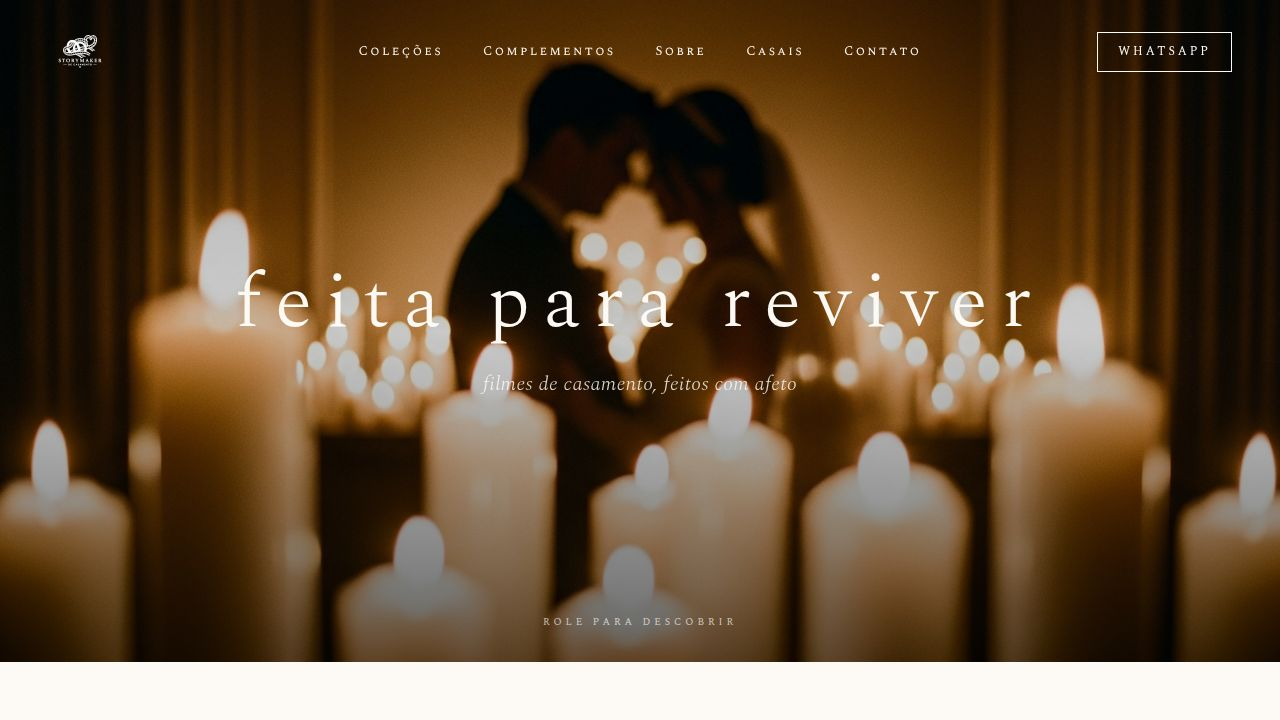
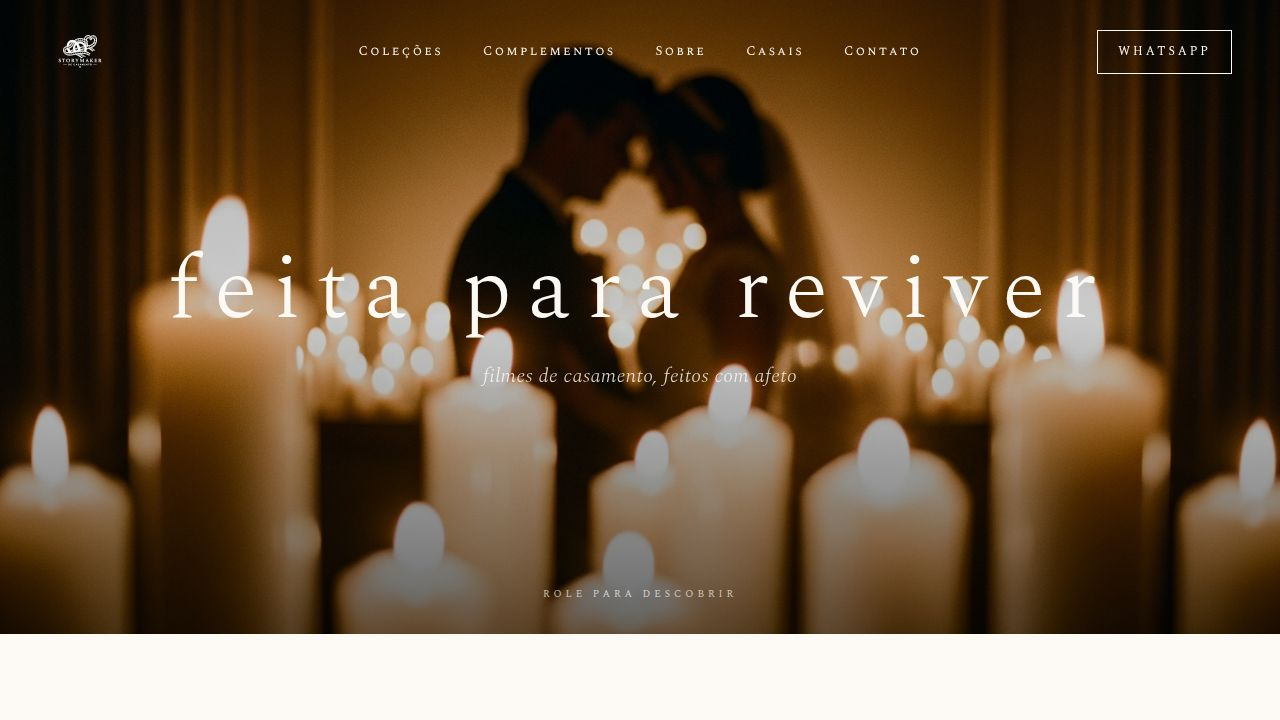
Improve website design and mobile responsiveness for better user experience
Update index.html, home.tsx, and various favicon assets to enhance mobile layout, header, and meta tags for improved responsiveness and favicons.

Replit-Commit-Author: Agent
Replit-Commit-Session-Id: 29212a02-7943-4e20-92ff-2854b4e63121
Replit-Commit-Checkpoint-Type: full_checkpoint
Replit-Commit-Event-Id: 5e167008-33ba-4bec-8a4d-55cfc9a4289c
Replit-Commit-Screenshot-Url: https://storage.googleapis.com/screenshot-production-us-central1/edd588f1-44c4-46a9-9ece-633be6032f3a/29212a02-7943-4e20-92ff-2854b4e63121/r1Ar5bD
Replit-Helium-Checkpoint-Created: true

diff --git a/artifacts/storymaker/src/pages/home.tsx b/artifacts/storymaker/src/pages/home.tsx
@@ -188,20 +188,20 @@ export default function Home() {
             : "bg-transparent"
         }`}
       >
-        <div className="max-w-[1400px] mx-auto px-6 md:px-12 py-4 md:py-5 grid grid-cols-3 items-center">
+        <div className="max-w-[1400px] mx-auto px-5 md:px-12 py-3 md:py-5 flex lg:grid lg:grid-cols-3 items-center justify-between lg:justify-stretch">
           {/* Logo (left) */}
-          <a href="#top" className="flex items-center">
+          <a href="#top" className="flex items-center shrink-0">
             <img
               src={logoImage}
               alt="Storymaker de Casamento"
-              className={`h-14 md:h-16 w-auto transition-all duration-500 ${
+              className={`h-11 md:h-14 lg:h-16 w-auto transition-all duration-500 ${
                 scrolled ? "" : "brightness-0 invert"
               }`}
             />
           </a>
 
           {/* Nav (center) */}
-          <nav className="hidden md:flex items-center justify-center gap-8 lg:gap-10">
+          <nav className="hidden lg:flex items-center justify-center gap-8 xl:gap-10">
             {NAV_LINKS.map((l) => (
               <a
                 key={l.href}
@@ -218,13 +218,13 @@ export default function Home() {
           </nav>
 
           {/* CTA (right) */}
-          <div className="flex items-center justify-end gap-4">
+          <div className="flex items-center lg:justify-end">
             <a
               href={WHATSAPP_HREF}
               target="_blank"
               rel="noopener noreferrer"
               aria-label="Falar no WhatsApp"
-              className={`smallcaps text-[10px] md:text-[12px] tracking-[0.22em] md:tracking-[0.25em] uppercase border px-3.5 md:px-5 py-2 md:py-2.5 transition-colors ${
+              className={`smallcaps text-[10px] md:text-[12px] tracking-[0.2em] md:tracking-[0.25em] uppercase border min-h-[44px] inline-flex items-center px-4 md:px-5 py-2 md:py-2.5 transition-colors ${
                 scrolled
                   ? "border-[#1a1410] text-[#1a1410] hover:bg-[#1a1410] hover:text-[#fdfaf5]"
                   : "border-[#fdfaf5] text-[#fdfaf5] hover:bg-[#fdfaf5] hover:text-[#1a1410]"
@@ -237,7 +237,7 @@ export default function Home() {
       </header>
 
       {/* HERO — fullbanner */}
-      <section id="top" className="relative h-[92vh] min-h-[620px] max-h-[920px] -mt-[88px] md:-mt-[104px] overflow-hidden">
+      <section id="top" className="relative h-[88vh] min-h-[560px] max-h-[920px] -mt-[68px] md:-mt-[104px] overflow-hidden">
         <img
           src={heroSilhouettes}
           alt="Silhueta de noivos entre velas"
@@ -246,22 +246,19 @@ export default function Home() {
         />
         <div className="absolute inset-0 bg-gradient-to-b from-black/30 via-black/20 to-black/60" />
 
-        <div className="relative z-10 h-full flex items-center justify-center text-center px-6">
+        <div className="relative z-10 h-full flex items-center justify-center text-center px-4 md:px-5">
           <motion.div initial="hidden" animate="visible" variants={fadeUp}>
-            <p
-              className="text-[#fdfaf5] font-light text-[clamp(2.4rem,6vw,5.6rem)] leading-[1.05]"
-              style={{ letterSpacing: "0.18em" }}
-            >
+            <p className="text-[#fdfaf5] font-light text-[clamp(2.1rem,7vw,5.6rem)] leading-[1.05] tracking-[0.04em] sm:tracking-[0.08em] md:tracking-[0.18em] whitespace-nowrap">
               feita para reviver
             </p>
-            <p className="mt-6 text-[#fdfaf5]/85 italic font-light text-[clamp(1rem,1.6vw,1.25rem)] tracking-wide">
+            <p className="mt-5 md:mt-6 text-[#fdfaf5]/85 italic font-light text-[clamp(0.95rem,1.6vw,1.25rem)] tracking-wide px-4">
               filmes de casamento, feitos com afeto
             </p>
           </motion.div>
         </div>
 
         {/* scroll cue */}
-        <div className="absolute bottom-8 left-1/2 -translate-x-1/2 text-[#fdfaf5]/70 text-[10px] tracking-[0.4em] uppercase">
+        <div className="absolute bottom-6 md:bottom-8 left-1/2 -translate-x-1/2 text-[#fdfaf5]/70 text-[10px] tracking-[0.35em] md:tracking-[0.4em] uppercase whitespace-nowrap">
           role para descobrir
         </div>
       </section>
@@ -272,12 +269,12 @@ export default function Home() {
         whileInView="visible"
         viewport={{ once: true, amount: 0.3 }}
         variants={fadeUp}
-        className="max-w-[820px] mx-auto px-6 py-24 md:py-32 text-center"
+        className="max-w-[820px] mx-auto px-5 md:px-6 py-16 md:py-32 text-center"
       >
-        <h1 className="text-[clamp(1.8rem,4vw,3rem)] font-light leading-tight">
+        <h1 className="text-[clamp(1.7rem,4vw,3rem)] font-light leading-tight">
           Made with love by <span className="italic">Storymaker</span>
         </h1>
-        <p className="mt-8 text-[17px] md:text-[18px] leading-[1.9] font-light text-[#3b322a]">
+        <p className="mt-6 md:mt-8 text-[15.5px] md:text-[18px] leading-[1.8] md:leading-[1.9] font-light text-[#3b322a]">
           Acreditamos que cada casamento merece ser contado com a delicadeza
           de um filme — não documentado, mas{" "}
           <span className="italic">eternizado</span>. Trabalhamos com poucos
@@ -289,14 +286,14 @@ export default function Home() {
       </motion.section>
 
       {/* FEATURED FILMS — Bestsellers */}
-      <section id="casais" className="border-t border-[#1a1410]/10 py-20 md:py-24">
-        <div className="max-w-[1400px] mx-auto px-6 md:px-12">
-          <div className="flex items-end justify-between mb-10">
+      <section id="casais" className="border-t border-[#1a1410]/10 py-14 md:py-24">
+        <div className="max-w-[1400px] mx-auto px-5 md:px-12">
+          <div className="flex items-end justify-between mb-8 md:mb-10">
             <div>
-              <p className="smallcaps text-[12px] tracking-[0.3em] text-[#8a6a2e] mb-3">
+              <p className="smallcaps text-[11px] md:text-[12px] tracking-[0.3em] text-[#8a6a2e] mb-2 md:mb-3">
                 demonstração
               </p>
-              <h2 className="text-[clamp(1.8rem,3.4vw,2.6rem)] font-light italic">
+              <h2 className="text-[clamp(1.6rem,3.4vw,2.6rem)] font-light italic">
                 uma pequena amostra do nosso olhar
               </h2>
             </div>
@@ -320,7 +317,7 @@ export default function Home() {
 
           <div
             ref={featuredRef}
-            className="no-scrollbar flex gap-5 overflow-x-auto snap-x snap-mandatory pb-2 -mx-6 px-6"
+            className="no-scrollbar flex gap-4 md:gap-5 overflow-x-auto snap-x snap-mandatory pb-2 -mx-5 md:-mx-6 px-5 md:px-6"
           >
             {FEATURED_FILMS.map((f, i) => (
               <a
@@ -330,7 +327,7 @@ export default function Home() {
                 )}
                 target="_blank"
                 rel="noopener noreferrer"
-                className="shrink-0 w-[240px] md:w-[300px] lg:w-[340px] snap-start group"
+                className="shrink-0 w-[78vw] sm:w-[260px] md:w-[300px] lg:w-[340px] snap-start group"
               >
                 <div className="relative aspect-[9/16] overflow-hidden bg-[#0c0a08]">
                   {f.video ? (
@@ -372,18 +369,18 @@ export default function Home() {
       </section>
 
       {/* PACKAGES — home-banners-grid (2x2) */}
-      <section id="colecoes" className="py-20 md:py-28 bg-[#f4eee2]/40">
-        <div className="max-w-[1400px] mx-auto px-6 md:px-12">
-          <div className="text-center mb-14 md:mb-16">
-            <p className="smallcaps text-[12px] tracking-[0.3em] text-[#8a6a2e] mb-3">
+      <section id="colecoes" className="py-14 md:py-28 bg-[#f4eee2]/40">
+        <div className="max-w-[1400px] mx-auto px-5 md:px-12">
+          <div className="text-center mb-10 md:mb-16">
+            <p className="smallcaps text-[11px] md:text-[12px] tracking-[0.3em] text-[#8a6a2e] mb-2 md:mb-3">
               coleções
             </p>
-            <h2 className="text-[clamp(2rem,4vw,3.2rem)] font-light leading-tight">
+            <h2 className="text-[clamp(1.7rem,4vw,3.2rem)] font-light leading-tight">
               Quatro caminhos para contar a sua história
             </h2>
           </div>
 
-          <div className="grid md:grid-cols-2 gap-5 md:gap-6">
+          <div className="grid md:grid-cols-2 gap-4 md:gap-6">
             {PACKAGES.map((pkg) => (
               <motion.a
                 key={pkg.name}
@@ -411,23 +408,23 @@ export default function Home() {
                   </div>
                 )}
 
-                <div className="absolute inset-0 p-7 md:p-10 flex flex-col justify-end text-[#fdfaf5]">
-                  <p className="smallcaps text-[11px] tracking-[0.3em] opacity-80 mb-2">
+                <div className="absolute inset-0 p-5 md:p-10 flex flex-col justify-end text-[#fdfaf5]">
+                  <p className="smallcaps text-[10px] md:text-[11px] tracking-[0.3em] opacity-80 mb-1.5 md:mb-2">
                     coleção
                   </p>
-                  <h3 className="text-[clamp(1.7rem,2.8vw,2.4rem)] font-light leading-tight">
+                  <h3 className="text-[clamp(1.5rem,2.8vw,2.4rem)] font-light leading-tight">
                     {pkg.name}
                   </h3>
-                  <ul className="mt-3 space-y-1 text-[14px] md:text-[15px] font-light opacity-90">
+                  <ul className="mt-2.5 md:mt-3 space-y-0.5 md:space-y-1 text-[13.5px] md:text-[15px] font-light opacity-90">
                     {pkg.bullets.map((b) => (
                       <li key={b}>· {b}</li>
                     ))}
                   </ul>
-                  <div className="mt-5 flex items-end justify-between gap-4">
-                    <p className="text-[clamp(1.4rem,2vw,1.8rem)] font-light">
+                  <div className="mt-4 md:mt-5 flex items-end justify-between gap-3 md:gap-4">
+                    <p className="text-[clamp(1.25rem,2vw,1.8rem)] font-light">
                       {pkg.price}
                     </p>
-                    <span className="smallcaps text-[11px] tracking-[0.25em] border-b border-[#fdfaf5]/70 pb-0.5 group-hover:border-[#fdfaf5] transition-colors">
+                    <span className="smallcaps text-[10px] md:text-[11px] tracking-[0.25em] border-b border-[#fdfaf5]/70 pb-0.5 group-hover:border-[#fdfaf5] transition-colors">
                       conversar →
                     </span>
                   </div>
@@ -439,10 +436,10 @@ export default function Home() {
       </section>
 
       {/* ADD-ONS — banners-middle pattern adapted */}
-      <section id="complementos" className="py-20 md:py-28">
-        <div className="max-w-[1400px] mx-auto px-6 md:px-12">
-          <div className="grid md:grid-cols-2 gap-12 md:gap-16 items-center mb-16">
-            <div className="relative aspect-[4/5] overflow-hidden">
+      <section id="complementos" className="py-14 md:py-28">
+        <div className="max-w-[1400px] mx-auto px-5 md:px-12">
+          <div className="grid md:grid-cols-2 gap-8 md:gap-16 items-center mb-12 md:mb-16">
+            <div className="relative aspect-[4/3] md:aspect-[4/5] overflow-hidden">
               <img
                 src={champagneImage}
                 alt="Detalhes do casamento"
@@ -451,13 +448,13 @@ export default function Home() {
               />
             </div>
             <div>
-              <p className="smallcaps text-[12px] tracking-[0.3em] text-[#8a6a2e] mb-4">
+              <p className="smallcaps text-[11px] md:text-[12px] tracking-[0.3em] text-[#8a6a2e] mb-3 md:mb-4">
                 complementos
               </p>
-              <h2 className="text-[clamp(1.8rem,3.4vw,2.8rem)] font-light leading-tight">
+              <h2 className="text-[clamp(1.6rem,3.4vw,2.8rem)] font-light leading-tight">
                 Detalhes que tornam cada filme único
               </h2>
-              <p className="mt-6 text-[16px] md:text-[17px] leading-[1.85] font-light text-[#3b322a]">
+              <p className="mt-5 md:mt-6 text-[15.5px] md:text-[17px] leading-[1.8] md:leading-[1.85] font-light text-[#3b322a]">
                 Some à sua coleção pequenos cuidados que fazem toda a diferença
                 — dos votos gravados ao vídeo carta dos convidados. Cada
                 complemento pode ser combinado com qualquer pacote.
@@ -465,7 +462,7 @@ export default function Home() {
             </div>
           </div>
 
-          <div className="grid sm:grid-cols-2 lg:grid-cols-4 gap-5 md:gap-6">
+          <div className="grid grid-cols-2 lg:grid-cols-4 gap-4 md:gap-6">
             {ADDONS.map((a) => (
               <motion.div
                 key={a.name}
@@ -483,11 +480,11 @@ export default function Home() {
                     className="w-full h-full object-cover transition-transform duration-700 group-hover:scale-105"
                   />
                 </div>
-                <div className="pt-5">
-                  <h3 className="text-[20px] md:text-[22px] font-light italic">
+                <div className="pt-3.5 md:pt-5">
+                  <h3 className="text-[17px] md:text-[22px] font-light italic">
                     {a.name}
                   </h3>
-                  <p className="mt-2 text-[14px] leading-[1.7] font-light text-[#5a4f43]">
+                  <p className="mt-1.5 md:mt-2 text-[13px] md:text-[14px] leading-[1.6] md:leading-[1.7] font-light text-[#5a4f43]">
                     {a.desc}
                   </p>
                 </div>
@@ -498,8 +495,8 @@ export default function Home() {
       </section>
 
       {/* SOBRE — banner_footer / concierge pattern */}
-      <section id="sobre" className="py-20 md:py-28">
-        <div className="max-w-[1280px] mx-auto px-6 md:px-12 grid md:grid-cols-2 gap-12 md:gap-20 items-center">
+      <section id="sobre" className="py-14 md:py-28">
+        <div className="max-w-[1280px] mx-auto px-5 md:px-12 grid md:grid-cols-2 gap-10 md:gap-20 items-center">
           <div className="relative aspect-[4/5] overflow-hidden order-2 md:order-1">
             <img
               src={ownerImage}
@@ -509,14 +506,14 @@ export default function Home() {
             />
           </div>
           <div className="order-1 md:order-2">
-            <p className="smallcaps text-[12px] tracking-[0.3em] text-[#8a6a2e] mb-4">
+            <p className="smallcaps text-[11px] md:text-[12px] tracking-[0.3em] text-[#8a6a2e] mb-3 md:mb-4">
               quem está atrás da câmera
             </p>
-            <h2 className="text-[clamp(1.9rem,3.6vw,2.8rem)] font-light leading-tight">
+            <h2 className="text-[clamp(1.7rem,3.6vw,2.8rem)] font-light leading-tight">
               Atendimento <span className="italic">personalizado</span>, do
               primeiro <span className="italic">olá</span> à entrega final.
             </h2>
-            <p className="mt-6 text-[16px] md:text-[17px] leading-[1.85] font-light text-[#3b322a]">
+            <p className="mt-5 md:mt-6 text-[15.5px] md:text-[17px] leading-[1.8] md:leading-[1.85] font-light text-[#3b322a]">
               Eu acompanho cada casal pessoalmente. Antes do casamento,
               conversamos sobre a história de vocês. No dia, filmo com calma e
               presença, sem atrapalhar. Depois, edito ouvindo a trilha que faz
@@ -527,7 +524,7 @@ export default function Home() {
               href={waHref(WA_MESSAGES.about)}
               target="_blank"
               rel="noopener noreferrer"
-              className="mt-9 inline-block smallcaps text-[12px] tracking-[0.3em] border border-[#1a1410] text-[#1a1410] hover:bg-[#1a1410] hover:text-[#fdfaf5] transition-colors px-7 py-3.5"
+              className="mt-7 md:mt-9 inline-flex items-center smallcaps text-[11px] md:text-[12px] tracking-[0.28em] md:tracking-[0.3em] border border-[#1a1410] text-[#1a1410] hover:bg-[#1a1410] hover:text-[#fdfaf5] transition-colors min-h-[44px] px-6 md:px-7 py-3 md:py-3.5"
             >
               agendar uma conversa
             </a>
@@ -536,27 +533,27 @@ export default function Home() {
       </section>
 
       {/* CONTATO / FOOTER */}
-      <footer id="contato" className="bg-[#0c0a08] text-[#fdfaf5] pt-20 pb-10">
-        <div className="max-w-[1400px] mx-auto px-6 md:px-12">
-          <div className="grid md:grid-cols-4 gap-10 md:gap-12 pb-16 border-b border-[#fdfaf5]/15">
-            <div>
+      <footer id="contato" className="bg-[#0c0a08] text-[#fdfaf5] pt-14 md:pt-20 pb-8 md:pb-10">
+        <div className="max-w-[1400px] mx-auto px-5 md:px-12">
+          <div className="grid grid-cols-2 md:grid-cols-4 gap-8 md:gap-12 pb-12 md:pb-16 border-b border-[#fdfaf5]/15">
+            <div className="col-span-2 md:col-span-1">
               <img
                 src={logoImage}
                 alt="Storymaker"
                 loading="lazy"
-                className="h-20 w-auto brightness-0 invert"
+                className="h-16 md:h-20 w-auto brightness-0 invert"
               />
-              <p className="mt-6 text-[14px] leading-[1.8] font-light text-[#fdfaf5]/70">
+              <p className="mt-4 md:mt-6 text-[13.5px] md:text-[14px] leading-[1.7] md:leading-[1.8] font-light text-[#fdfaf5]/70 max-w-[420px]">
                 Filmes de casamento autorais, com olhar cinematográfico e
                 atendimento direto com o diretor.
               </p>
             </div>
 
             <div>
-              <h3 className="smallcaps text-[12px] tracking-[0.3em] text-[#fdfaf5]/60 mb-5">
+              <h3 className="smallcaps text-[11px] md:text-[12px] tracking-[0.3em] text-[#fdfaf5]/60 mb-4 md:mb-5">
                 coleções
               </h3>
-              <ul className="space-y-2.5 text-[14px] font-light">
+              <ul className="space-y-2 md:space-y-2.5 text-[13.5px] md:text-[14px] font-light">
                 {PACKAGES.map((p) => (
                   <li key={p.name}>
                     <a href="#colecoes" className="hover:text-[#d8b87a] transition-colors">
@@ -568,10 +565,10 @@ export default function Home() {
             </div>
 
             <div>
-              <h3 className="smallcaps text-[12px] tracking-[0.3em] text-[#fdfaf5]/60 mb-5">
+              <h3 className="smallcaps text-[11px] md:text-[12px] tracking-[0.3em] text-[#fdfaf5]/60 mb-4 md:mb-5">
                 complementos
               </h3>
-              <ul className="space-y-2.5 text-[14px] font-light">
+              <ul className="space-y-2 md:space-y-2.5 text-[13.5px] md:text-[14px] font-light">
                 {ADDONS.map((a) => (
                   <li key={a.name}>
                     <a href="#complementos" className="hover:text-[#d8b87a] transition-colors">
@@ -582,11 +579,11 @@ export default function Home() {
               </ul>
             </div>
 
-            <div>
-              <h3 className="smallcaps text-[12px] tracking-[0.3em] text-[#fdfaf5]/60 mb-5">
+            <div className="col-span-2 md:col-span-1">
+              <h3 className="smallcaps text-[11px] md:text-[12px] tracking-[0.3em] text-[#fdfaf5]/60 mb-4 md:mb-5">
                 contato
               </h3>
-              <ul className="space-y-2.5 text-[14px] font-light">
+              <ul className="space-y-2 md:space-y-2.5 text-[13.5px] md:text-[14px] font-light">
                 <li>
                   <a
                     href={WHATSAPP_HREF}
@@ -603,7 +600,7 @@ export default function Home() {
             </div>
           </div>
 
-          <div className="pt-8 flex flex-col md:flex-row items-center justify-between gap-4 text-[12px] text-[#fdfaf5]/50">
+          <div className="pt-6 md:pt-8 flex flex-col md:flex-row items-center justify-between gap-3 md:gap-4 text-[11px] md:text-[12px] text-[#fdfaf5]/50 text-center md:text-left">
             <p>© {new Date().getFullYear()} Storymaker de Casamento · Todos os direitos reservados</p>
             <p className="smallcaps tracking-[0.3em]">made with love</p>
           </div>

diff --git a/artifacts/storymaker/index.html b/artifacts/storymaker/index.html
@@ -2,8 +2,13 @@
 <html lang="pt-BR">
   <head>
     <meta charset="UTF-8" />
-    <meta name="viewport" content="width=device-width, initial-scale=1.0" />
-    <meta name="theme-color" content="#1a1410" />
+    <meta name="viewport" content="width=device-width, initial-scale=1.0, viewport-fit=cover" />
+    <meta name="theme-color" content="#fdfaf5" media="(prefers-color-scheme: light)" />
+    <meta name="theme-color" content="#0c0a08" media="(prefers-color-scheme: dark)" />
+    <meta name="apple-mobile-web-app-capable" content="yes" />
+    <meta name="mobile-web-app-capable" content="yes" />
+    <meta name="apple-mobile-web-app-status-bar-style" content="default" />
+    <meta name="format-detection" content="telephone=no" />
 
     <title>Storymaker de Casamento — filmes autorais para celebrações inesquecíveis</title>
     <meta
@@ -28,7 +33,9 @@
     />
     <meta name="twitter:image" content="/opengraph.jpg" />
 
-    <link rel="icon" type="image/svg+xml" href="/favicon.svg" />
+    <link rel="icon" type="image/png" sizes="32x32" href="favicon-32.png" />
+    <link rel="icon" type="image/png" sizes="256x256" href="favicon.png" />
+    <link rel="apple-touch-icon" sizes="180x180" href="apple-touch-icon.png" />
     <link rel="preconnect" href="https://fonts.googleapis.com" />
     <link rel="preconnect" href="https://fonts.gstatic.com" crossorigin />
   </head>

diff --git a/replit.md b/replit.md
@@ -62,3 +62,9 @@ The storymaker site is a pure static SPA (no runtime backend — only WhatsApp d
 **Asset weight caveat:**
 
 The four Julio & Thalia wedding clips in `attached_assets/` total roughly 44 MB and the cinematic background PNGs add another ~15 MB; the full `dist/public` is around 70 MB. That is well under GitHub Pages limits (1 GB repo, 100 GB bandwidth/month, 100 MB per file) but is heavy for first-time visitors on slow connections. If load times become a concern, consider re-encoding the videos at lower bitrate or moving them to a CDN/object storage and referencing by URL.
+
+**Mobile / favicon pass:**
+
+- Favicons live in `artifacts/storymaker/public/`: `favicon.png` (256×256), `favicon-32.png`, `apple-touch-icon.png` (180×180), all rendered from the brand logo with a cream `#fdfaf5` background so they read on any browser tab color. Linked in `index.html` head with explicit sizes (`favicon-32.png`, `favicon.png`, `apple-touch-icon.png`). The previous `favicon.svg` was removed.
+- `index.html` head also sets `viewport-fit=cover`, light/dark `theme-color` (`#fdfaf5` light / `#0c0a08` dark), `apple-mobile-web-app-capable`, `mobile-web-app-capable`, and `format-detection=no` to prevent iOS auto-linking the phone number.
+- Mobile layout in `home.tsx` uses `flex justify-between` on the header (switches to `md:grid md:grid-cols-3` from `md:` up) so the WhatsApp button sits flush right with no empty middle column on small screens. Logo shrinks to `h-11` on mobile, the WhatsApp button enforces `min-h-[44px]` for a comfortable touch target. Hero headline tracks `0.06em` on mobile and `0.18em` on desktop so "feita para reviver" stays on a single line at 390 px. Section vertical padding is reduced on mobile (`py-14` → `py-24`/`py-28` desktop pattern), the featured-films carousel cards become `78vw` wide on mobile (one card with peek of next), the add-ons grid becomes 2 columns on mobile, and the footer becomes a 2-column grid with the brand and contact blocks each spanning both columns.